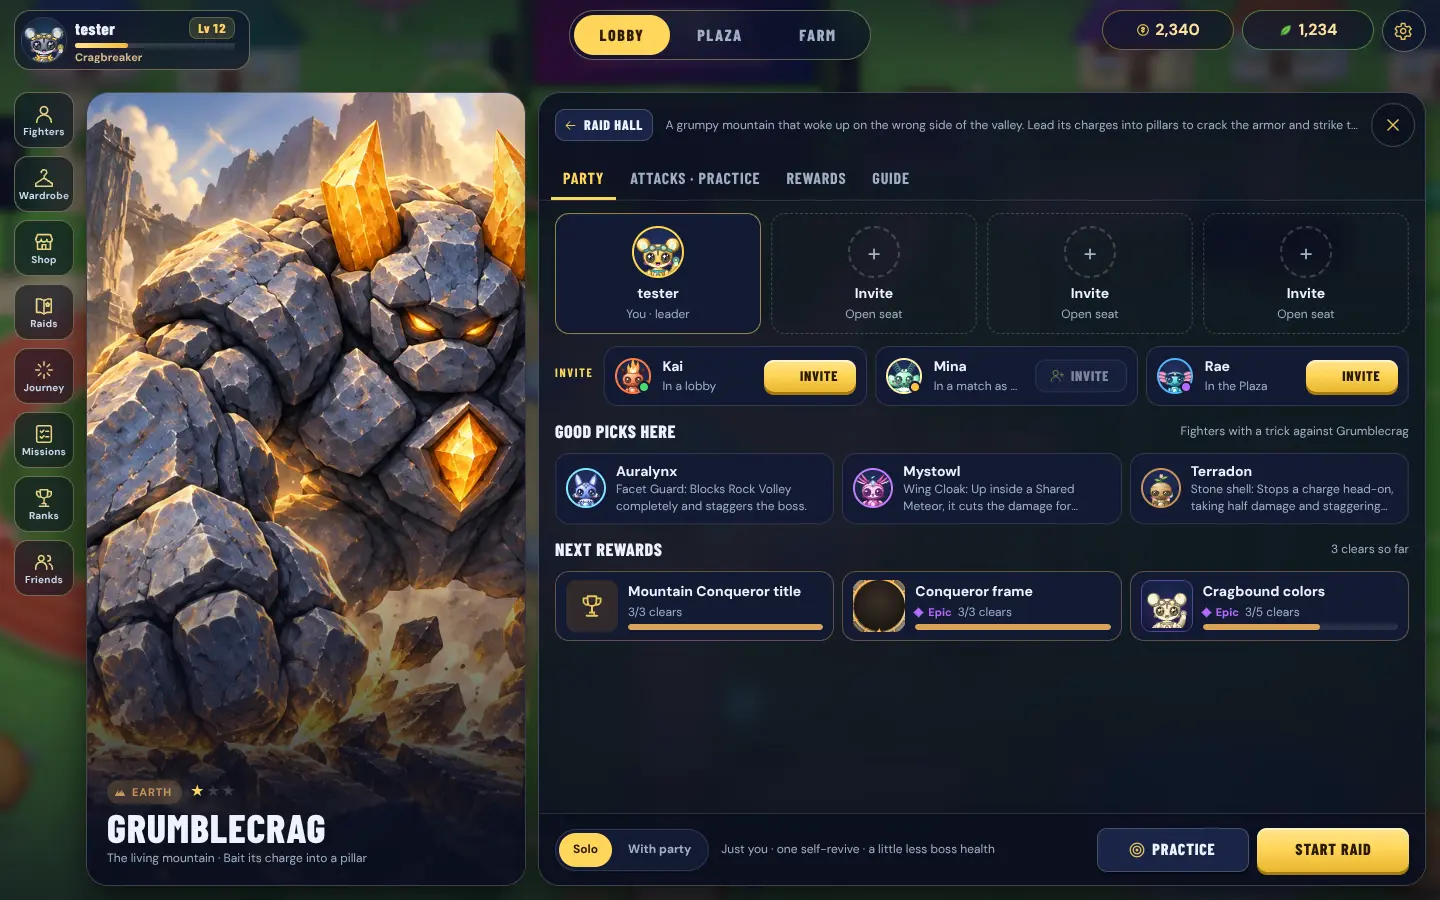
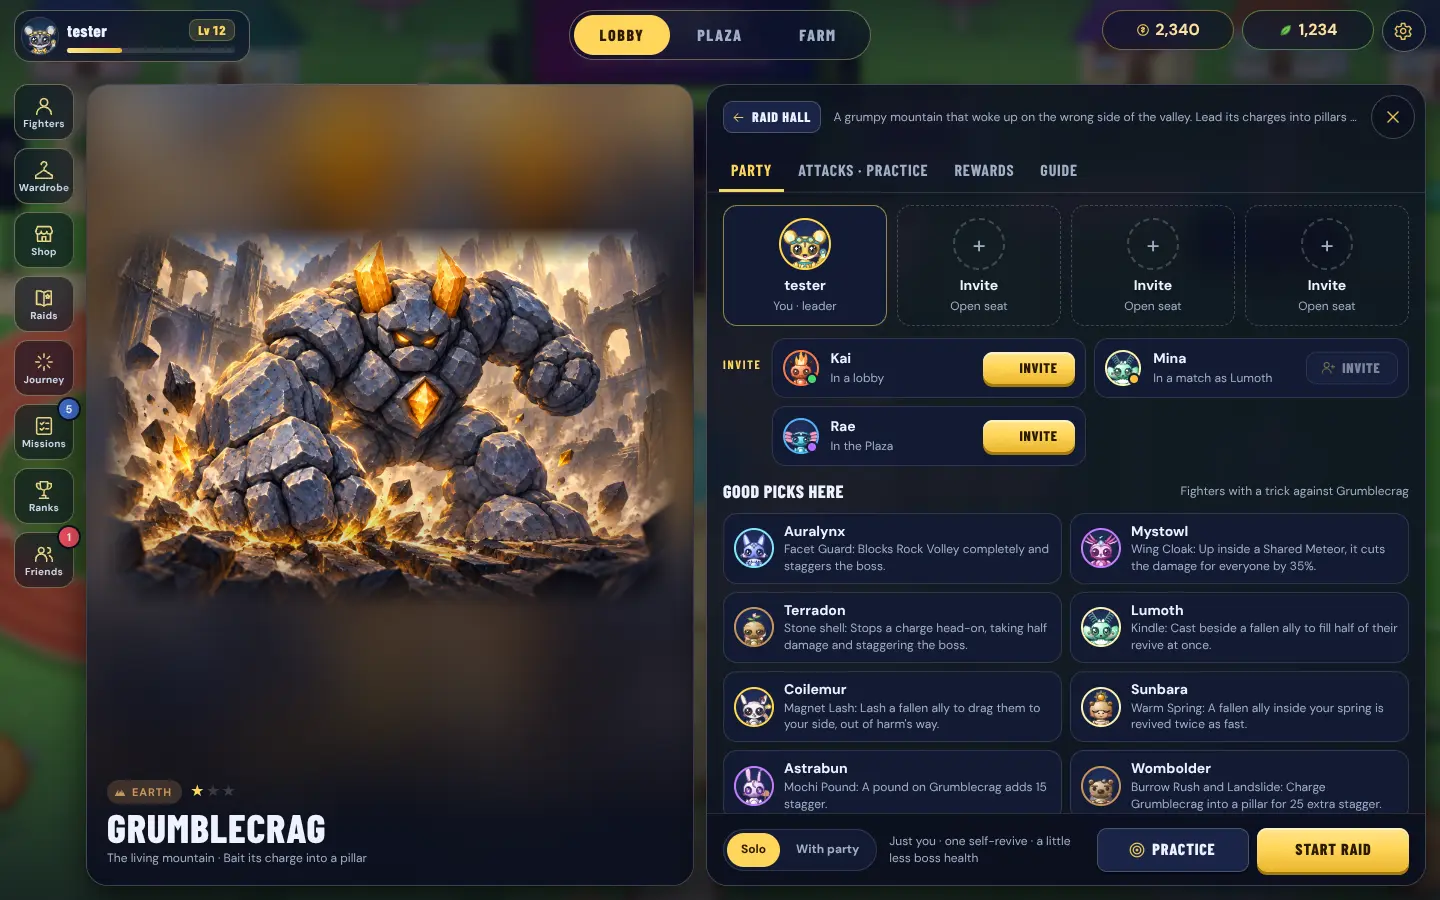
Raids: the whole boss picture on a big window, and a Party tab that uses the height
Owner's note on a 1720x1392 window: the boss art was cropped and the right
side was mostly empty. On desktop the art is now shown whole over a
blurred copy of itself (phones still crop it to fill their narrow strip;
Low graphics leaves out the blur). The Party tab lists every fighter with
a trick here, up to six next rewards and a strip of the boss's attacks
that opens the Attacks tab on one. raids.spec adds 1720x1392 and checks
the picture is whole and the tab fills its column.

Claude-Session: https://claude.ai/code/session_01DkYiJrhqGSZzwtiE7qKXRD

diff --git a/apps/client/src/screens/raid-hall.css b/apps/client/src/screens/raid-hall.css
@@ -149,19 +149,45 @@
 }
 
 /* -------------------------------------------------------- boss page */
+/* The boss's whole picture (it is wide, the stage is tall) over a blurred,
+   darkened copy of itself that fills the rest of the stage. Phones, where
+   the stage is a narrow strip, crop it to fill instead. */
 .rh-stage {
   background: var(--ui-bg-0);
 }
-.rh-hero,
-.rh-hero img {
+.rh-hero-fill,
+.rh-hero-fill img {
   position: absolute;
   inset: 0;
   width: 100%;
   height: 100%;
 }
-.rh-hero img {
+.rh-hero-fill img {
   object-fit: cover;
-  object-position: 38% 50%;
+  transform: scale(1.15);
+  filter: blur(28px) brightness(0.55) saturate(1.25);
+}
+.rh-hero {
+  position: absolute;
+  inset: 16px 16px 150px;
+  display: grid;
+  place-items: center;
+}
+.rh-hero img {
+  width: 100%;
+  height: auto;
+  max-height: 100%;
+  aspect-ratio: 1536 / 1024;
+  object-fit: contain;
+  /* The picture's edges melt into its blurred copy. */
+  mask-image:
+    linear-gradient(90deg, transparent, #000 7%, #000 93%, transparent),
+    linear-gradient(180deg, transparent, #000 10%, #000 90%, transparent);
+  mask-composite: intersect;
+}
+/* Low graphics: no blur, a plain dark stage around the picture. */
+[data-graphics="low"] .rh-hero-fill {
+  display: none;
 }
 .rh-stage::after {
   content: "";
@@ -289,11 +315,8 @@
 }
 .rh-picks {
   display: grid;
-  grid-template-columns: repeat(3, minmax(0, 1fr));
+  grid-template-columns: repeat(auto-fill, minmax(300px, 1fr));
   gap: 8px;
-}
-.rh-picks.is-all {
-  grid-template-columns: repeat(auto-fill, minmax(240px, 1fr));
 }
 .rh-pick {
   display: grid;
@@ -322,11 +345,8 @@
 /* Rewards: a picture, the goal and its progress. */
 .rh-rewards {
   display: grid;
-  grid-template-columns: repeat(3, minmax(0, 1fr));
-  gap: 8px;
-}
-.rh-rewards.is-all {
   grid-template-columns: repeat(auto-fill, minmax(240px, 1fr));
+  gap: 8px;
 }
 .rh-reward {
   position: relative;
@@ -397,6 +417,28 @@
 .rh-check svg {
   width: 16px;
   height: 16px;
+}
+/* The Party tab's strip of attacks (each opens the Attacks tab). */
+.rh-strip {
+  display: grid;
+  grid-template-columns: repeat(auto-fill, minmax(200px, 1fr));
+  gap: 8px;
+}
+.rh-attack.is-mini {
+  padding: 8px 10px;
+}
+.rh-attack.is-mini .rh-attack-icon {
+  width: 32px;
+  height: 32px;
+}
+.rh-attack.is-mini .rh-attack-text b {
+  white-space: nowrap;
+  overflow: hidden;
+  text-overflow: ellipsis;
+}
+.rh-attack.is-mini:hover,
+.rh-attack.is-mini:focus-visible {
+  border-color: var(--ui-accent);
 }
 /* Attacks: one row each; the picked one is what Practice drills. */
 .rh-attacks {
@@ -500,17 +542,6 @@
   .rh-head .ui-kicker {
     display: none;
   }
-  .rh-picks,
-  .rh-rewards {
-    grid-template-columns: repeat(2, minmax(0, 1fr));
-  }
-  .rh-picks > :nth-child(n + 3),
-  .rh-rewards:not(.is-all) > :nth-child(n + 3) {
-    display: none;
-  }
-  .rh-picks.is-all > :nth-child(n + 3) {
-    display: grid;
-  }
   .rh-attacks {
     grid-template-columns: minmax(0, 1fr);
   }
@@ -563,6 +594,20 @@
   .rh-practice > .ui-btn {
     display: none;
   }
+  /* A narrow strip: the picture fills it (cropped), no blurred copy. */
+  .rh-hero-fill {
+    display: none;
+  }
+  .rh-hero {
+    inset: 0;
+  }
+  .rh-hero img {
+    height: 100%;
+    aspect-ratio: auto;
+    object-fit: cover;
+    object-position: 38% 50%;
+    mask-image: none;
+  }
   .rh-stage-info {
     left: 8px;
     right: 8px;
@@ -613,10 +658,6 @@
     grid-template-columns: repeat(3, minmax(0, 1fr));
     gap: 6px;
   }
-  .rh-picks > :nth-child(n + 3),
-  .rh-rewards:not(.is-all) > :nth-child(n + 3) {
-    display: grid;
-  }
   .rh-picks.is-all,
   .rh-rewards.is-all {
     grid-template-columns: repeat(2, minmax(0, 1fr));
@@ -658,6 +699,12 @@
   }
   .rh-chapters li {
     padding: 6px 8px;
+  }
+  /* Phones: the Attacks tab is one tap away; the strip would only add
+     scrolling. */
+  .rh-strip,
+  .rh-strip-head {
+    display: none;
   }
   .rh-foot-note:not(.is-reason) {
     display: none;

diff --git a/tests/visual/raids.spec.ts b/tests/visual/raids.spec.ts
@@ -13,6 +13,9 @@ import {
 // shared layout rules (ui-measure.ts); labels are checked for centring on
 // the pixels.
 const SIZES = [
+  // A tall desktop window (the owner's, 4 Nov): the whole boss picture and
+  // a filled Party tab.
+  { name: "1720x1392", width: 1720, height: 1392, phone: false },
   { name: "1440x900", width: 1440, height: 900, phone: false },
   { name: "1280x720", width: 1280, height: 720, phone: false },
   { name: "844x390", width: 844, height: 390, phone: true },
@@ -186,12 +189,37 @@ for (const size of SIZES)
       await expect(room.locator('[aria-label="Invite Kai"]')).toBeEnabled();
       await expect(room.locator('[aria-label="Invite Mina"]')).toBeDisabled();
       await expect(room.locator(".rh-friend")).toHaveCount(3);
-      await expect(room.locator(".rh-pick")).toHaveCount(3);
+      // Every fighter with a trick against Grumblecrag.
+      await expect(room.locator(".rh-pick")).toHaveCount(8);
       await settle(page);
       const art = room.locator(".rh-hero img");
       expect(
         await art.evaluate((i: HTMLImageElement) => i.naturalWidth),
       ).toBeGreaterThanOrEqual(1200);
+      if (!size.phone) {
+        // The whole picture, uncropped, inside the stage.
+        const shown = await art.evaluate((i: HTMLImageElement) => {
+          const r = i.getBoundingClientRect();
+          return {
+            ratio: r.width / r.height,
+            fit: getComputedStyle(i).objectFit,
+          };
+        });
+        expect(shown.fit).toBe("contain");
+        expect(Math.abs(shown.ratio - 1536 / 1024)).toBeLessThan(0.02);
+        expect(
+          inside(await box(page, ".rh-hero img"), await box(page, ".rh-stage")),
+        ).toBe(true);
+      }
+      if (size.height > 1000) {
+        // A tall window: the Party tab fills most of its column.
+        const fill = await room.locator(".rh-body").evaluate((b) => {
+          const top = b.getBoundingClientRect().top;
+          const last = b.lastElementChild!.getBoundingClientRect().bottom;
+          return (last - top) / b.clientHeight;
+        });
+        expect(fill).toBeGreaterThan(0.75);
+      }
       expect(await closeSpot(page)).toEqual([
         size.phone
           ? { right: 7, top: 7, size: 32 }
@@ -295,6 +323,16 @@ test("Start raid, Practice and Invite go to the game's own calls", async ({
   // An open seat leads to the invite list.
   await room.locator("[data-raid-open-seat]").first().click();
   await expect(room.locator('[aria-label="Invite Rae"]')).toBeFocused();
+  // The Party tab's attack strip opens the Attacks tab on that attack.
+  await room.locator('[data-ui-raid-tab="party"]').click();
+  const strip = room.locator("[data-raid-attack-go]").nth(2);
+  const picked = await strip.getAttribute("data-raid-attack-go");
+  await strip.click();
+  await expect(room.locator(`[data-raid-attack="${picked}"]`)).toHaveAttribute(
+    "aria-pressed",
+    "true",
+  );
+  await room.locator('[data-ui-raid-tab="party"]').click();
   // Practice: a room, then the picked attack on its own.
   await room.locator('[data-ui-raid-tab="attacks"]').click();
   await room.locator("[data-raid-attack]").nth(1).click();

diff --git a/apps/client/src/screens/raid-hall-view.ts b/apps/client/src/screens/raid-hall-view.ts
@@ -305,7 +305,7 @@ function rewardTotal(p: RaidProgress) {
 
 function stage(id: RaidBossId) {
   const b = RAID_BOSSES[id];
-  return `<section class="ui-split-stage rh-stage" style="--el:${b.color}" aria-label="${esc(b.name)}"><span class="rh-hero">${raidSplashImage(id, true)}</span><div class="rh-stage-info"><span class="rh-row">${elementTag(b.element)}${stars(b.stars)}</span><b class="rh-stage-name">${esc(b.name)}</b><small class="ui-note rh-stage-line">${esc(b.epithet)} · ${esc(b.signature)}</small></div></section>`;
+  return `<section class="ui-split-stage rh-stage" style="--el:${b.color}" aria-label="${esc(b.name)}"><span class="rh-hero-fill" aria-hidden="true">${raidSplashImage(id, true)}</span><span class="rh-hero">${raidSplashImage(id, true)}</span><div class="rh-stage-info"><span class="rh-row">${elementTag(b.element)}${stars(b.stars)}</span><b class="rh-stage-name">${esc(b.name)}</b><small class="ui-note rh-stage-line">${esc(b.epithet)} · ${esc(b.signature)}</small></div></section>`;
 }
 function seat(s: RaidSeat, i: number) {
   const sub = s.me
@@ -360,8 +360,10 @@ function partyTab(view: RaidView, d: RaidData) {
             })
             .join("");
         })();
-  const tricks = bossTricks(view.boss).slice(0, 3);
-  const next = nextRewards(d.progress, view.boss);
+  // Every fighter with a trick here, and the next six rewards: a tall
+  // screen shows them all; a short one scrolls.
+  const tricks = bossTricks(view.boss);
+  const next = nextRewards(d.progress, view.boss, 6);
   const clears = bossClearCount(d.progress, view.boss);
   return `<div class="rh-seats" role="group" aria-label="Raid party">${seats.map(seat).join("")}${open}</div>
 <div class="rh-invites" data-raid-invites><span class="ui-kicker">Invite</span><div class="rh-friends">${friends}</div></div>
@@ -372,7 +374,16 @@ function partyTab(view: RaidView, d: RaidData) {
     d.progress
       ? `<div class="rh-section"><h3 class="ui-h">Next rewards</h3><small class="ui-note">${clears} ${clears === 1 ? "clear" : "clears"} so far</small></div>${next.length ? `<div class="rh-rewards">${next.map((g) => rewardCard(g, d, "rh-next")).join("")}</div>` : `<p class="ui-note">Every milestone here is earned. Try a new fighter or a faster clear.</p>`}`
       : ""
-  }</div>`;
+  }</div>
+<div class="rh-section rh-strip-head"><h3 class="ui-h">Its attacks</h3><small class="ui-note">Pick one to practise it</small></div>
+<div class="rh-strip" role="group" aria-label="${esc(b.name)} attacks">${raidAttacksOf(
+    view.boss,
+  )
+    .map(
+      (a) =>
+        `<button type="button" class="rh-attack is-mini" data-raid-attack-go="${a}" aria-label="Practise ${esc(RAID_ATTACKS[a].name)}: ${esc(RAID_ATTACKS[a].practice)}" title="${esc(RAID_ATTACKS[a].practice)}"><span class="rh-attack-icon" aria-hidden="true">${menuIcon(ATTACK_ICONS[a] ?? "target")}</span><span class="rh-attack-text"><b>${esc(RAID_ATTACKS[a].name)}</b></span></button>`,
+    )
+    .join("")}</div>`;
 }
 function attacksTab(view: RaidView, d: RaidData) {
   const b = RAID_BOSSES[view.boss];

diff --git a/apps/client/src/screens/raid-hall.ts b/apps/client/src/screens/raid-hall.ts
@@ -170,6 +170,14 @@ export function openRaids(
     } else if (d.uiRaidPlay) {
       view.play = d.uiRaidPlay as RaidView["play"];
       render();
+    } else if (d.raidAttackGo) {
+      // The Party tab's attack strip: to the Attacks tab, that attack picked.
+      view.tab = "attacks";
+      view.attack = d.raidAttackGo as RaidAttack;
+      render(true);
+      q<HTMLElement>(`[data-raid-attack="${view.attack}"]`)?.focus({
+        preventScroll: true,
+      });
     } else if (d.raidAttack) {
       view.attack = d.raidAttack as RaidAttack;
       render();
@@ -210,7 +218,7 @@ export function openRaids(
     )[event.key];
     if (!step) return;
     const group = t.closest<HTMLElement>(
-      ".ui-tabs, .ui-seg, .ui-chips, .rh-grid, .rh-attacks",
+      ".ui-tabs, .ui-seg, .ui-chips, .rh-grid, .rh-attacks, .rh-strip",
     );
     if (!group || !root().contains(group)) return;
     const items = Array.from(
@@ -221,7 +229,10 @@ export function openRaids(
     let cols = items.length;
     if (group.classList.contains("rh-grid"))
       cols = getComputedStyle(group).gridTemplateColumns.split(" ").length;
-    else if (group.classList.contains("rh-attacks"))
+    else if (
+      group.classList.contains("rh-attacks") ||
+      group.classList.contains("rh-strip")
+    )
       cols = getComputedStyle(group).gridTemplateColumns.split(" ").length;
     else if (step[1]) return;
     const next = items[i + step[0] + step[1] * cols];

diff --git a/tests/visual/raid-splash.spec.ts b/tests/visual/raid-splash.spec.ts
@@ -113,7 +113,9 @@ for (const viewport of [
                 r.height / (img.naturalHeight * scale),
               );
             }),
-          ).toBeGreaterThanOrEqual(0.25);
+            // Desktop shows the whole picture (owner's note, 4 Nov); a
+            // phone's narrow strip crops it to fill.
+          ).toBeGreaterThanOrEqual(viewport.height > 500 ? 0.98 : 0.25);
         }
         expect(
           await room.evaluate((el) => el.scrollWidth - el.clientWidth),

diff --git a/docs/ui-remodel/PLAN.md b/docs/ui-remodel/PLAN.md
@@ -828,6 +828,34 @@ same problem as a list (bars 1,250 px long beside a 320 px level road).
 - **Journey**: weekly goals are cards two to a row when the column has
   800 px; the level road is `clamp(320px, 30%, 420px)`.
 
+### Step 5: the boss page on a big window (4 Nov 2026)
+
+Owner's note (a 1720×1392 window): the boss art was cropped and the right
+side had too much empty space. Before and after:
+[boss page, tall window](images/step5/boss-tall.webp).
+
+- **The whole picture:** on desktop the boss's art is shown whole (it is a
+  wide 3:2 picture, the stage is tall) over a blurred, darkened copy of
+  itself that fills the stage, its edges fading into that copy. Low
+  graphics leaves out the blurred copy. Phones, where the stage is a
+  210 px strip, still crop it to fill. The stage itself now grows with the
+  screen and the main column stops at `--split-main` (the split-panel
+  change above), which took care of most of the empty width.
+- **The Party tab uses the height:** every fighter with a trick here (seven
+  or eight, two to a row) instead of three, up to six next rewards, and a
+  strip of the boss's six attacks, each opening the Attacks tab on that
+  attack. A short screen scrolls; phones leave out the strip (the Attacks
+  tab is one tap away).
+- **Tests:** `raids.spec.ts` adds 1720×1392, where it checks the picture is
+  whole (`object-fit: contain`, its own 3:2 shape, inside the stage) and
+  that the Party tab fills more than 75% of its column; the strip opens the
+  Attacks tab on its attack. `raid-splash.spec.ts` expects the whole
+  picture on desktop.
+- **Room decisions (owner, 4 Nov):** the raid room mockup is approved as
+  drawn: the corner button leaves the room, a room has no rail (nor the
+  Lobby / Plaza / Farm switch), and the 2v2 and free-for-all rooms move to
+  the same frame in this step.
+
 ## Decisions (owner, 3 Nov 2026)
 
 | #   | Question                                        | Decision                                                                                                                                                         |
